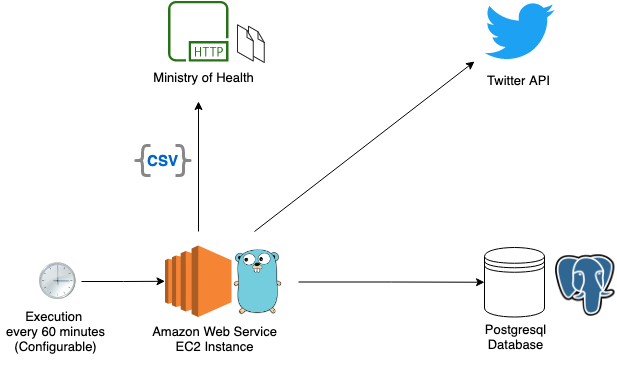
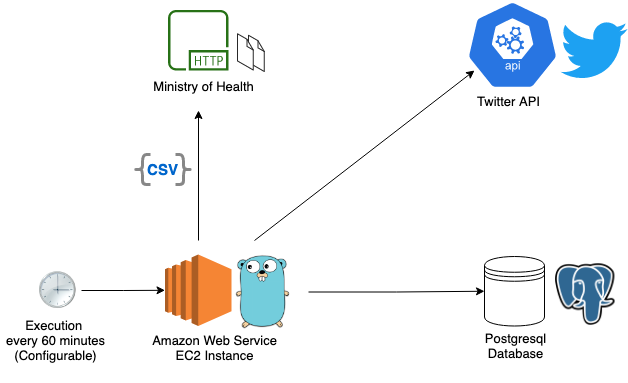
Update diagram, readme and minor logging

diff --git a/source/main.go b/source/main.go
@@ -85,6 +85,7 @@ func main() {
 	listTweets, isNewInfo := handler.GenerateTweetMsg(dateDailyCases, numNewCases, dateDeceased, numDeceased)
 	if isNewInfo != true {
 		log.Println("Not required creation of new Tweets")
+		log.Println("**** END EXECUTION ***")
 		os.Exit(0)
 	}
 
@@ -102,5 +103,5 @@ func main() {
 		log.Println("PostTweet() failed, ", err)
 	}
 	log.Println("**** END EXECUTION ***")
-	 */
+	*/
 }

diff --git a/README.md b/README.md
@@ -1,19 +1,20 @@
-# CovidAlerts-PE project: tweets notifications about COVID-19 for Perú
+# CovidAlerts-PE project: tweets about COVID-19 for Perú
 
 
 ## What is CovidAlerts-PE?
-CovidAlerts-PE is a personal project by @angelmottap with the purpose of process official data about COVID-19 in Perú which is daily shared by the Ministry of Health from Perú (MINSA) through a public platform called "Datos Abiertos".
+**CovidAlerts-PE** is a personal project by [@angelmottap](https://twitter.com/angelmottap) with the purpose of sharing useful and straightforward information about COVID-19 in Perú via Twitter account [@DatosCovidPeru](https://twitter.com/DatosCovidPeru).  
+For this goal, I process official data about COVID-19 from Ministry of Health in Perú (MINSA) which is daily updated through a public platform called Datos Abiertos.
 
 ## Why CovidAlerts-PE?
-My original goal with this project was start learning the Go programming language. I wanted to start with something simple to build to learn a long the process.
-At the beginning I didn't know what to build but one of my best friends @jvegar gave me an idea to consume public data. In that process of thinking about what kind of data would be interesting to me consume I find that would be useful process data about COVID-19 in my country Perú. Despite having passed 1 year, I see that my country is still far from ending this pandemic.  
-One thing we can do is keep us informed about the COVID-19 situation and take awareness about the risks we assume when we go out (especially if we go out with no need). In that sense I find important share simple and useful information to know what is the current COVID-19 situation.  
-I see some website and twitter accounts sharing a lot of information about COVID-19 that I find confusing (not only for me), CovidAlerts-PE project help with this issue sharing daily two simple and useful data:  
+My original goal with this project was start learning the Go programming language. I wanted to start with something simple to build to learn along the process.
+At the beginning I didn't know what to build but one of my best friends [@jvegar](https://github.com/jvegar) gave me an idea to consume public data. In that process of thinking I found that would be useful process data about COVID-19 from my country (Perú).  
+Despite having passed 1 year, my country is still far from ending this pandemic. One thing we can do is keep us informed about the COVID-19 situation and take awareness about the risks we assume when we go out (especially if we go out with no need). In that sense I find important share simple and useful information to know what is the current COVID-19 situation.  
+I see some website and twitter accounts sharing too much information about COVID-19 that I find confusing (not only for me), **CovidAlerts-PE** project help with this issue sharing daily two simple indicators:  
 - Number of people confirmed with COVID-19  
 - Number of people deceased
 
 ## Project status
-This is project is under development, and the following is the first proposal which is up and running and sharing information through twitter account @DatosCovidPeru
+This is project is under development, and the following is the first proposal which is up and running and sharing information through twitter account [@DatosCovidPeru](https://twitter.com/DatosCovidPeru)
 
 ## Proposal
 ### Architecture
